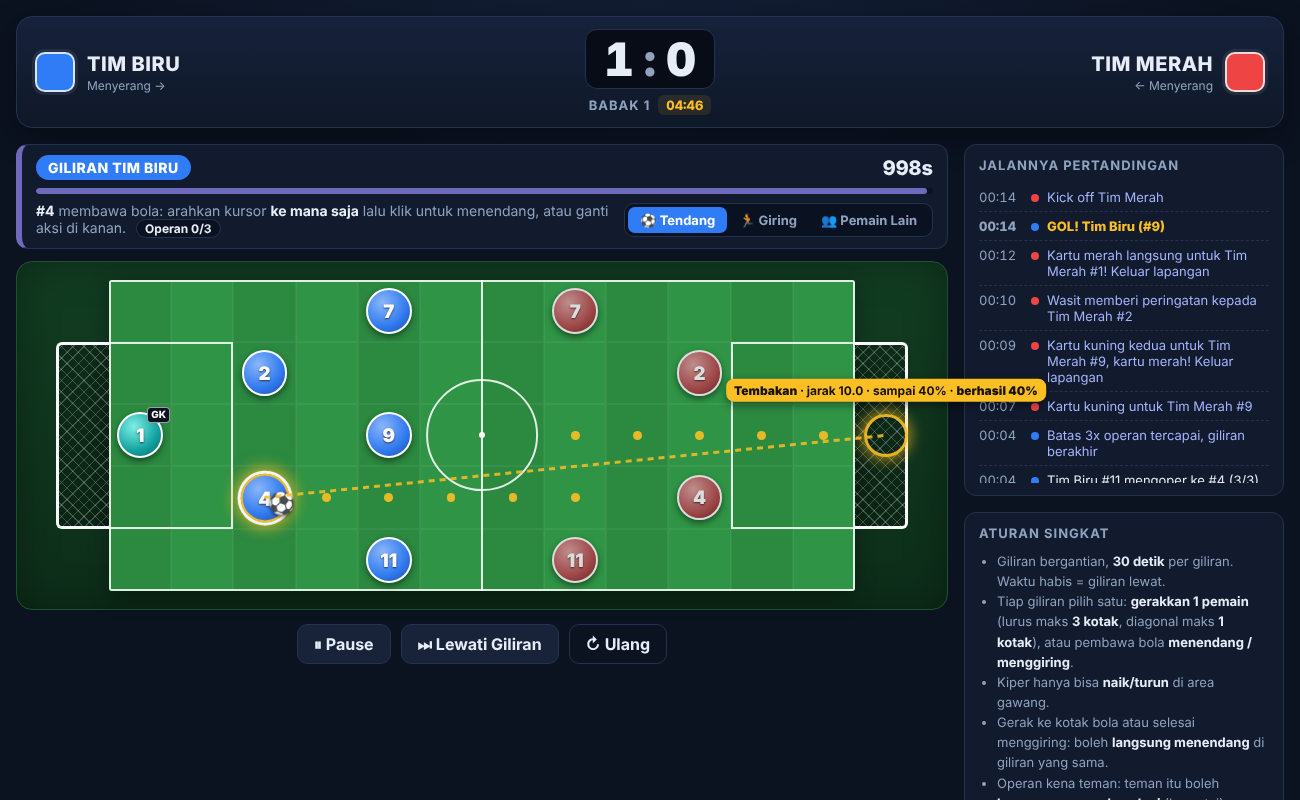
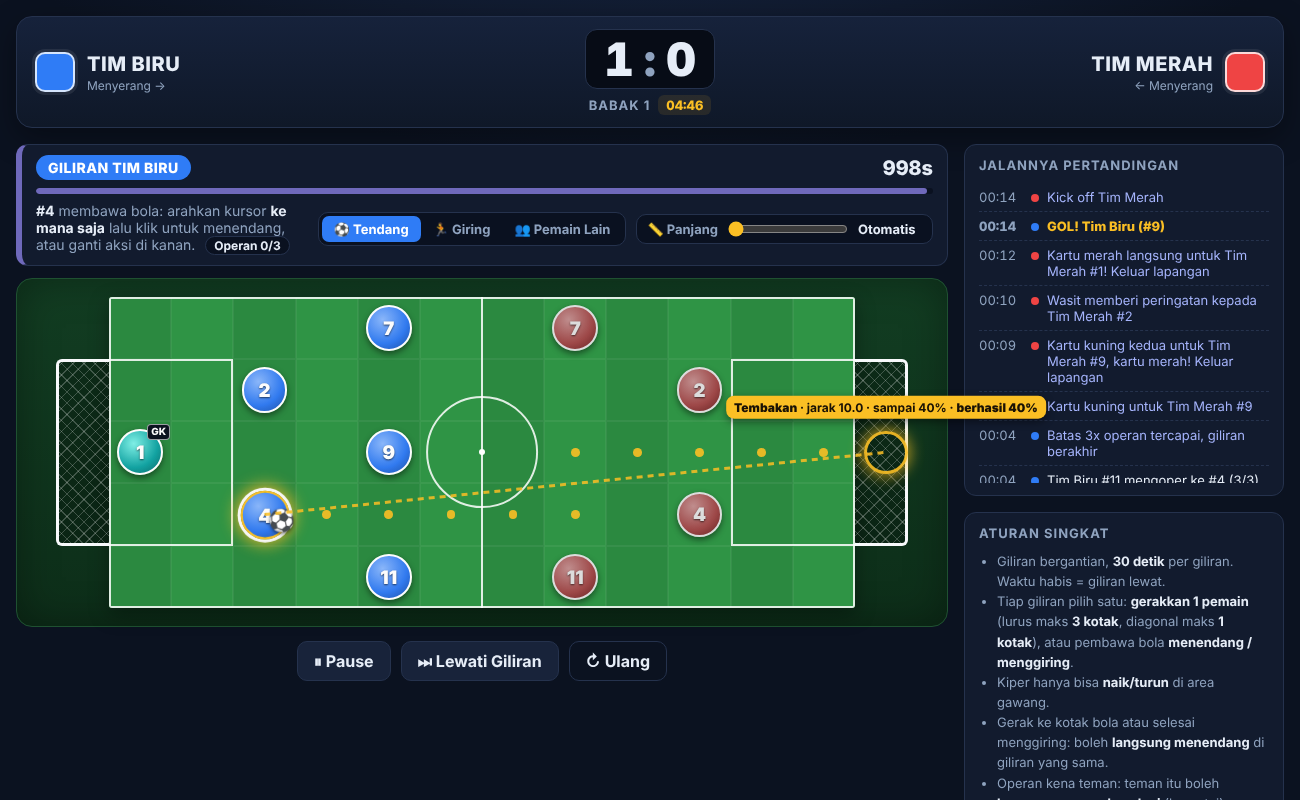
Let players set kick length (slider or scroll wheel)
Claude-Session: https://claude.ai/code/session_015apjspuw7rwpnqHU6AUw6R

diff --git a/game.js b/game.js
@@ -69,6 +69,7 @@ const S = {
   pickOther: false,   // pembawa bola memilih menggerakkan pemain lain
   passes: 0,          // jumlah operan sukses di giliran ini
   aim: null,          // titik bidik (koordinat kotak, desimal) saat mode tendang
+  kickLen: 0,         // panjang tendangan pilihan pemain (kotak); 0 = otomatis sampai titik bidik
   cards: {},          // id pemain -> jumlah kartu kuning
   sentOff: new Set(), // id pemain yang dikartu merah
   setPiece: null,     // null | 'free' (tendangan bebas sedang berlangsung)
@@ -214,11 +215,21 @@ function lineCells(from, tx, ty) {
 //  - tujuan = gawang      -> tembakan
 //  - garis keluar lapangan-> bola berhenti di kotak terakhir di lapangan
 // Tendangan jauh punya peluang berhenti di tengah jalan.
+// Titik tujuan tendangan: arah dari titik bidik, panjang dari pengaturan (jika diatur).
+function kickPoint(k, aim) {
+  if (!S.kickLen) return aim;
+  const ax = k.x + 0.5, ay = k.y + 0.5;
+  const len = Math.hypot(aim.x - ax, aim.y - ay);
+  if (len < 0.01) return aim;
+  return { x: ax + (aim.x - ax) / len * S.kickLen, y: ay + (aim.y - ay) / len * S.kickLen };
+}
+
 function planKick(k, aim) {
   const from = { x: k.x, y: k.y };
   const path = [];
   let goal = null;
-  for (const c of lineCells(from, aim.x, aim.y)) {
+  const pt = kickPoint(k, aim);
+  for (const c of lineCells(from, pt.x, pt.y)) {
     if (isGoalCell(c.x, c.y)) { path.push(c); goal = c.x === 0 ? 'left' : 'right'; break; }
     if (!inField(c.x, c.y)) break;
     path.push(c);
@@ -877,6 +888,14 @@ function buildAim(layer) {
 
   aim.onpointermove = e => { if (e.pointerType === 'mouse') { S.aim = toGrid(e); drawAim(); } };
   aim.onpointerleave = e => { if (e.pointerType === 'mouse') { S.aim = null; drawAim(); } };
+  // scroll di lapangan = atur panjang tendangan
+  aim.onwheel = e => {
+    e.preventDefault();
+    const h = holder();
+    let base = S.kickLen;
+    if (!base && h && S.aim) base = Math.round(Math.hypot(S.aim.x - h.x - 0.5, S.aim.y - h.y - 0.5));
+    setKickLen((base || 1) + (e.deltaY < 0 ? 1 : -1));
+  };
   aim.onpointerup = e => {
     if (S.phase !== 'play' || S.paused) return;
     const g = toGrid(e);
@@ -894,6 +913,17 @@ function buildAim(layer) {
   drawAim();
 }
 
+function setKickLen(v) {
+  S.kickLen = Math.max(0, Math.min(CONFIG.COLS + 1, Math.round(v)));
+  renderPower();
+  drawAim();
+}
+
+function renderPower() {
+  $('power').value = S.kickLen;
+  $('powerVal').textContent = S.kickLen ? S.kickLen + ' kotak' : 'Otomatis';
+}
+
 function drawAim() {
   clearPath();
   if (!els.aim) return;
@@ -907,10 +937,14 @@ function drawAim() {
   }
   line.setAttribute('visibility', 'visible');
   line.setAttribute('x1', h.x + 0.5); line.setAttribute('y1', h.y + 0.5);
-  line.setAttribute('x2', S.aim.x);  line.setAttribute('y2', S.aim.y);
+  // garis sampai titik tujuan; jika keluar lapangan, sampai kotak terakhir
+  const pt = kickPoint(h, S.aim);
+  const end = plan.path[plan.path.length - 1];
+  const inside = Math.floor(pt.x) === end.x && Math.floor(pt.y) === end.y;
+  line.setAttribute('x2', inside ? pt.x : end.x + 0.5);
+  line.setAttribute('y2', inside ? pt.y : end.y + 0.5);
   showPath(plan);
 
-  const end = plan.path[plan.path.length - 1];
   const r = plan.receiver;
   const pct = v => Math.round(v * 100) + '%';
   const what = plan.goal ? 'Tembakan'
@@ -918,6 +952,7 @@ function drawAim() {
     : r ? `Ke lawan #${r.num}!`
     : 'Tendang ke ruang kosong';
   const parts = [`<b>${what}</b> · jarak ${plan.d.toFixed(1)}`];
+  if (!inside && !plan.goal) parts.push('mentok batas lapangan');
   if (plan.reach < 1) parts.push(`sampai ${pct(plan.reach)}`);
   const over = plan.blockers.filter(b => b.p.role !== 'GK'), gk = plan.blockers.find(b => b.p.role === 'GK');
   if (over.length) parts.push(`lambung lolos ${over.map(b => pct(b.chance)).join(' × ')}`);
@@ -998,6 +1033,7 @@ function renderHud() {
   const h = holder();
   const showAct = S.phase === 'play' && !S.paused && h && h.team === S.turn && !S.moved;
   $('holderActions').classList.toggle('hidden', !showAct);
+  $('powerBox').classList.toggle('hidden', !(S.phase === 'play' && !S.paused && S.mode === 'kick'));
   const cur = S.selected === (h && h.id) ? S.action : 'other';
   document.querySelectorAll('[data-act]').forEach(b => b.classList.toggle('on', b.dataset.act === cur));
   $('btnSkip').textContent = S.moved ? '✓ Selesai Giliran' : '⏭ Lewati Giliran';
@@ -1041,6 +1077,9 @@ function togglePause() {
 
 $('btnPause').onclick = togglePause;
 $('btnPenalty').onclick = takePenalty;
+$('power').max = CONFIG.COLS + 1;
+$('power').oninput = e => setKickLen(+e.target.value);
+renderPower();
 document.querySelectorAll('[data-act]').forEach(b => { b.onclick = () => setAction(b.dataset.act); });
 $('btnSkip').onclick = () => {
   if (S.phase !== 'play' || S.paused) return;

diff --git a/index.html b/index.html
@@ -54,6 +54,11 @@
               <button data-act="dribble">🏃 Giring</button>
               <button data-act="other">👥 Pemain Lain</button>
             </div>
+            <label class="power hidden" id="powerBox" title="Panjang tendangan (scroll di lapangan juga bisa)">
+              📏 Panjang
+              <input type="range" id="power" min="0" max="13" step="1" value="0">
+              <span id="powerVal">Otomatis</span>
+            </label>
           </div>
         </section>
 
@@ -84,6 +89,7 @@
             <li>Operan kena teman: teman itu boleh <b>langsung menendang lagi</b> (berantai) selama waktu giliran masih ada.</li>
             <li>Gerak ke kotak lawan pembawa bola = <b>rebut bola</b>. Lawan tergeser 1 kotak.</li>
             <li><b>Tendangan bebas arah</b>: bidik ke titik mana saja (tidak hanya 8 arah), sistem menghitung kotak yang dilewati bola. Bola berhenti di kotak tujuan.</li>
+            <li><b>Panjang tendangan</b> bisa diatur (slider 📏 atau scroll di lapangan). <b>Otomatis</b> = sampai titik bidik. Makin panjang, makin kecil peluang sampai.</li>
             <li><b>Lambung otomatis</b> saat melewati lawan: dekat <b>50%</b> (kiper di jalur <b>40%</b>), makin jauh makin kecil, <b>0%</b> mulai jarak 9 (kiper 8).</li>
             <li>Tembakan ke gawang selalu bisa <b>ditepis kiper</b>: lolos <b>60%</b> dari dekat, turun sampai <b>0%</b> di jarak 9.</li>
             <li>Tendangan lebih dari <b>4 kotak</b> bisa <b>berhenti di tengah jalan</b> (peluang sampai turun 10% per kotak).</li>

diff --git a/style.css b/style.css
@@ -239,6 +239,13 @@ main { min-width: 0; }
 .aim-label.below { transform: translate(calc(var(--cell) * .5 - 50%), calc(var(--cell) + 6px)); }
 .aim-label.bad { background: #f87171; color: #fff; }
 .aim-label.hidden { display: none; }
+.power {
+  display: inline-flex; align-items: center; gap: 8px; font-size: 13px; font-weight: 700; color: var(--muted);
+  background: #0a1120; border: 1px solid var(--border); border-radius: 10px; padding: 4px 10px;
+}
+.power.hidden { display: none; }
+.power input { width: 120px; accent-color: var(--gold); }
+.power span { color: var(--text); min-width: 64px; font-variant-numeric: tabular-nums; }
 .passes {
   display: inline-block; margin-left: 6px; padding: 1px 8px; border-radius: 99px;
   background: #0a1120; border: 1px solid var(--border); color: var(--text); font-weight: 700; font-size: 12px;
